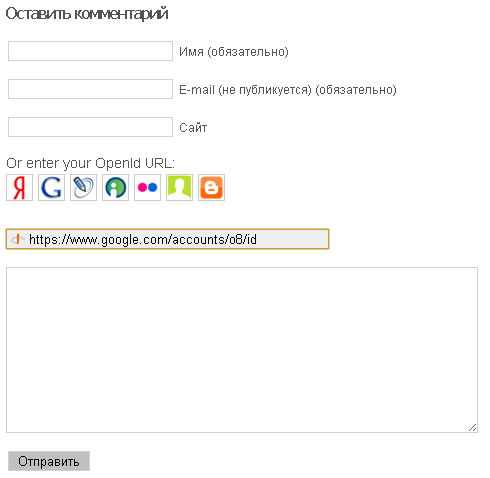
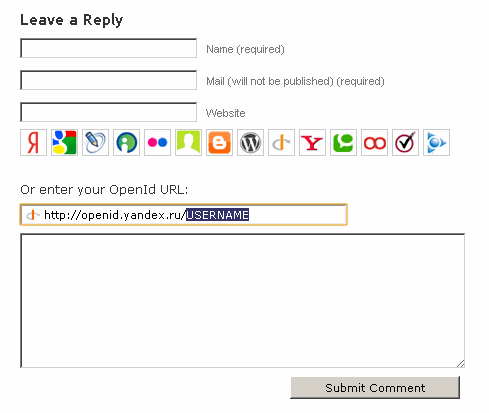
git-svn-id: https://plugins.svn.wordpress.org/comments-with-openid/trunk@175543 b8457f37-d9ea-0310-8a92-e5e31aec5664

Changed region(s): [[0.0, 0.0, 0.9509, 0.9007], [0.5828, 0.8717, 0.9816, 0.9879], [0.0, 0.9298, 0.184, 0.9879]]

diff --git a/comments-with-openid.php b/comments-with-openid.php
@@ -3,48 +3,60 @@
 /*
 
 Plugin Name: Comments with OpenId
-Plugin URI: http://www.unixpin.com/wordpress/comments-with-openid
+Plugin URI: http://unixpin.com/wordpress/2009/11/16/wordpress-plugin-comments-with-openid
 Description: Third party accounts login plugin enables you to allow users to login via third party accounts like Google, Yandex and so on. Based on 'Third Party Accounts Login' plugin of  Anant Garg
-Version: 1.0
+Version: 1.1
 Author: Korolev Igor
 Author URI: http://unixpin.com
 Licence: This WordPress plugin is licenced under the GNU General Public Licence. For more information see: http://www.gnu.org/copyleft/gpl.html
 
-For documentation, please visit http://www.unixpin.com/wordpress/comments-with-openid
+For documentation, please visit http://unixpin.com/wordpress/2009/11/16/wordpress-plugin-comments-with-openid
 
 */
 
 
 
 function comments_with_openid() {
-	$plugin_url = trailingslashit( get_bloginfo('wpurl') ).PLUGINDIR.'/'. dirname( plugin_basename(__FILE__) );
+	$plugin_url = '/'.PLUGINDIR.'/'. dirname( plugin_basename(__FILE__) );
+/*	$plugin_url = trailingslashit( get_bloginfo('wpurl') ).PLUGINDIR.'/'. dirname( plugin_basename(__FILE__) ); */
 	$data = '<div>';
 	
 	$OpenIDs = 
 	array (
-		'Yandex' => array( 'url'=> 'http://openid.yandex.ru/USERNAME', 'start'=> 24, 'end'=> 8 ),
-		'Google' => array( 'url'=> 'https://www.google.com/accounts/o8/id', 'start'=> 0, 'end'=> 0 ),
-		'LiveJournal' => array( 'url'=> 'http://USERNAME.livejournal.com', 'start'=> 7, 'end'=> 8 ),
-		'myOpenId' => array( 'url'=> 'http://USERNAME.myopenid.com/', 'start'=> 7, 'end'=> 8 ),
-		'Flickr' => array( 'url'=> 'http://flickr.com/USERNAME/', 'start'=> 18, 'end'=> 8 ),
-		'claimId' => array( 'url'=> 'http://claimid.com/USERNAME', 'start'=> 19, 'end'=> 8 ),
-		'Blogger' => array( 'url'=> 'http://USERNAME.blogspot.com', 'start'=> 7, 'end'=> 8 )
+		'Yandex' => array( 'url'=> 'http://openid.yandex.ru/USERNAME', 'start'=> 24, 'end'=> 8, 'sprite'=> 0 ),
+		'Google' => array( 'url'=> 'https://www.google.com/accounts/o8/id', 'start'=> 0, 'end'=> 0, 'sprite'=> 1 ),
+		'LiveJournal' => array( 'url'=> 'http://USERNAME.livejournal.com', 'start'=> 7, 'end'=> 8, 'sprite'=> 2 ),
+		'myOpenId' => array( 'url'=> 'http://USERNAME.myopenid.com/', 'start'=> 7, 'end'=> 8, 'sprite'=> 3 ),
+		'Flickr' => array( 'url'=> 'http://flickr.com/USERNAME/', 'start'=> 18, 'end'=> 8, 'sprite'=> 4  ),
+		'claimId' => array( 'url'=> 'http://claimid.com/USERNAME', 'start'=> 19, 'end'=> 8, 'sprite'=> 5  ),
+		'Blogger' => array( 'url'=> 'http://USERNAME.blogspot.com', 'start'=> 7, 'end'=> 8, 'sprite'=> 6  ),
+		'Wordpress' => array( 'url'=> 'http://USERNAME.wordpress.com', 'start'=> 7, 'end'=> 8, 'sprite'=> 7  ),
+		'OpenID' => array( 'url'=> '', 'start'=> 0, 'end'=> 0, 'sprite'=> 8  ),
+		'Yahoo' => array( 'url'=> 'http://www.yahoo.com', 'start'=> 0, 'end'=> 0, 'sprite'=> 9  ),
+		'Technorati' => array( 'url'=> 'http://technorati.com/people/technorati/USERNAME/', 'start'=> 40, 'end'=> 8, 'sprite'=> 10 ),
+		'Vidoop' => array( 'url'=> 'http://USERNAME.myvidoop.com/', 'start'=> 7, 'end'=> 8, 'sprite'=> 11 ),
+		'Verisign' => array( 'url'=> 'http://USERNAME.pip.verisignlabs.com/', 'start'=> 7, 'end'=> 8, 'sprite'=> 12 ),
+		'AOL' => array( 'url'=> 'http://openid.aol.com/USERNAME', 'start'=> 22, 'end'=> 8, 'sprite'=> 13 )
 	);
-
-
+		
 	foreach ($OpenIDs as $openid=>$tp) {
-			$data .= '<a href="javascript:void(0);" onclick="javascript:setToVar(\''.$tp['url'].'\',\''.$tp['start'].'\',\''.$tp['end'].'\');">';
-			$data .= '<img src="'.$plugin_url.'/img/small/'.strtolower($openid).'.png" width="25" height="25" border="0" class="tpal_image_small" alt="'.$openid.'" title="'.$openid.'">';
-			$data .= '</a>';
+			$data .= '<a href="javascript:void(0);" onclick="javascript:setToVar(\''.$tp['url'].'\',\''.$tp['start'].'\',\''.$tp['end'].'\');">
+			';
+			$data .= '<img src="'.$plugin_url.'/img/small/'.strtolower($openid).'.png" width="25" height="25" border="0" style="border:1px solid #cccccc; margin: 0 3 3 0;" alt="'.$openid.'" title="'.$openid.'"/>
+			'; 
+/*
+			$data .= '<img src="'.$plugin_url.'/img/1x1.png" width="25" height="25" border="0" style="background-image: url('.$plugin_url.'/img/oi.png);background-repeat: no-repeat 25 25, background-position: -'. $tp['sprite']*25 .' 0;border:1px solid #cccccc;margin: 0 5 5 0;" alt="'.$openid.'" title="'.$openid.'"/>
+			';
+*/			
+			$data .= '</a>
+			';
 	}
-	$data .= '<br/> </div>';
-	
+	$data .= '<br/> </div>
+	';
 
+	
+echo $css;
 echo <<<EOD
-	<style type="text/css">
-		.tpal_image_small { 	border:1px solid #cccccc;  	margin-right:5px; 	margin-bottom:5px; }
-		.tpal_text a { 	border-bottom:1px dotted #333333; 	text-decoration:none;  }	
-	</style>
 	<script type="text/javascript">
 	function setToVar(url,start,length) {
 		document.getElementById('openid_identifier').value = url;
